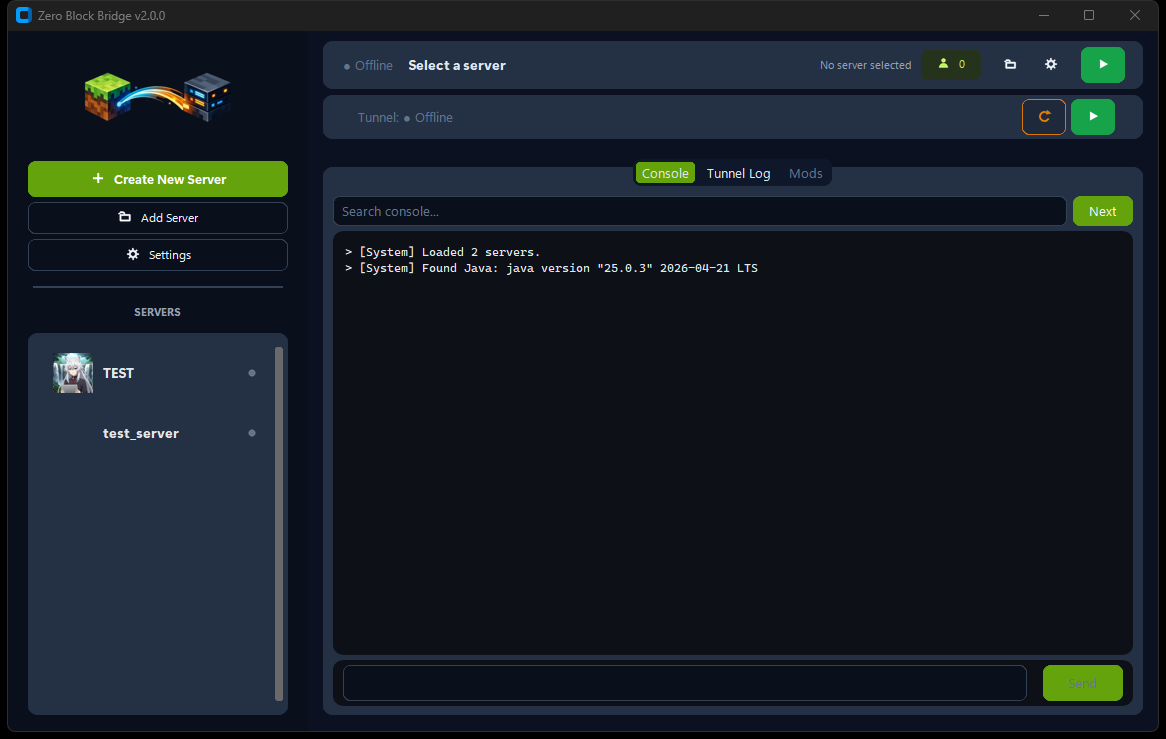
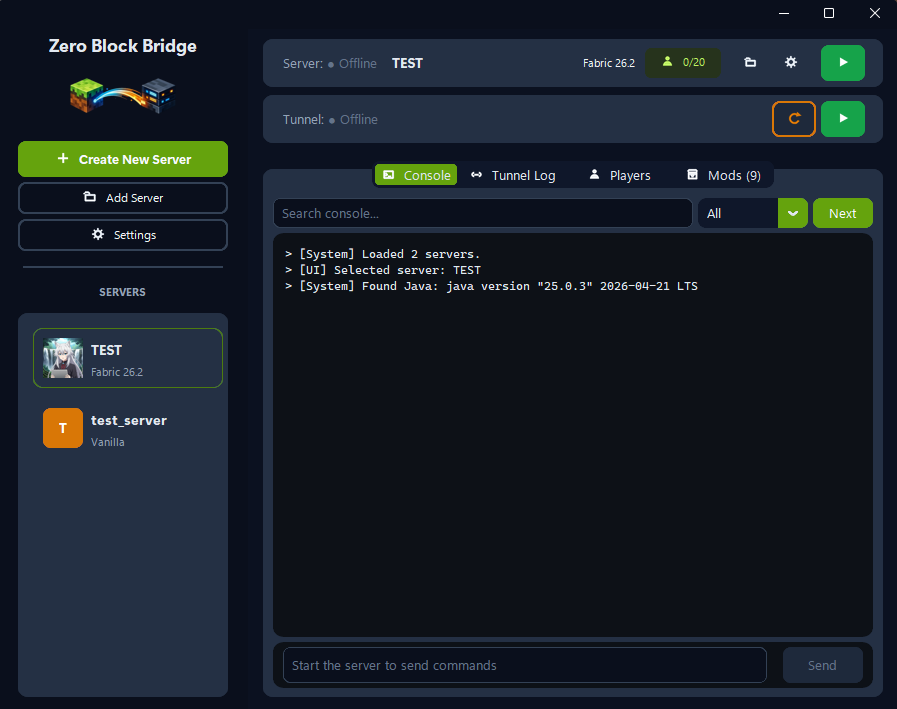
fix(site): stale v2.0.0 screenshot, unthrottled resize handlers, reduced-motion support
The dashboard screenshot showed the old titlebar and pre-2.2.0 UI (no
Players tab, no tab counts); replaced with a current dark-theme capture.

Both the hero tile grid and the section particle canvas rebuilt
themselves on every single resize event with no debouncing, so dragging
the window edge repeatedly tore down and recreated hundreds of tile divs
and the whole particle simulation. Debounced to 150ms.

prefers-reduced-motion only silenced the starfield; the hero shimmer
sweep, title gradient drift, hint pulse, and the particle canvas's
infinite requestAnimationFrame loop kept running regardless. All four
now respect it (the canvas draws one static frame instead of looping).

Also added the 2.2.0 "Browse While Running" feature to the list and
renamed "Players Dashboard" to "Players Tab" to match the app.

diff --git a/script.js b/script.js
@@ -48,7 +48,11 @@
   };
 
   createGrid();
-  window.addEventListener('resize', createGrid);
+  let resizeTimer;
+  window.addEventListener('resize', () => {
+    clearTimeout(resizeTimer);
+    resizeTimer = setTimeout(createGrid, 150);
+  });
 
   // ── Scroll-out: hero fades as user scrolls (no slide) ───────
   const FADE_RANGE = 220;
@@ -170,18 +174,28 @@
       }
     }
 
-    animId = requestAnimationFrame(tick);
+    if (!reduceMotion) animId = requestAnimationFrame(tick);
   }
 
+  const reduceMotion = window.matchMedia('(prefers-reduced-motion: reduce)').matches;
+
+  let resizeTimer;
   window.addEventListener('resize', () => {
-    cancelAnimationFrame(animId);
-    init();
-    lastTs = null;
-    animId = requestAnimationFrame(tick);
+    clearTimeout(resizeTimer);
+    resizeTimer = setTimeout(() => {
+      cancelAnimationFrame(animId);
+      init();
+      lastTs = null;
+      if (!reduceMotion) animId = requestAnimationFrame(tick);
+    }, 150);
   });
 
   init();
-  animId = requestAnimationFrame(tick);
+  if (reduceMotion) {
+    tick(0); // draw one static frame, no loop
+  } else {
+    animId = requestAnimationFrame(tick);
+  }
 })();
 
 // ── Vitra init ─────────────────────────────────────────────────

diff --git a/index.html b/index.html
@@ -116,9 +116,10 @@
         <ul class="more-features vitra-reveal vitra-reveal-up">
           <li><span class="mf-icon">💾</span> <strong>Scheduled Backups</strong> — auto ZIP by interval &amp; retention</li>
           <li><span class="mf-icon">📦</span> <strong>Templates &amp; .zbbpack</strong> — reusable configs, portable archives</li>
-          <li><span class="mf-icon">👥</span> <strong>Players Dashboard</strong> — ops, bans, whitelist in one view</li>
+          <li><span class="mf-icon">👥</span> <strong>Players Tab</strong> — ops, bans, whitelist, skin heads &amp; playtime in one view</li>
           <li><span class="mf-icon">🔗</span> <strong>Mod Dependency Resolution</strong> — auto-resolve, update badges</li>
           <li><span class="mf-icon">💬</span> <strong>Discord Webhooks</strong> — crash, ready, backup &amp; player events</li>
+          <li><span class="mf-icon">🗂</span> <strong>Browse While Running</strong> — view or configure any server while another one plays</li>
         </ul>
       </div>
     </section>

diff --git a/style.css b/style.css
@@ -130,10 +130,6 @@ body {
   to   { background-position: -100% 0; }
 }
 
-@media (prefers-reduced-motion: reduce) {
-  .zbb-stars { animation: none; }
-}
-
 /* ── Tile Grid ─────────────────────────────────────────────── */
 
 #hero-tiles {
@@ -710,4 +706,15 @@ body {
   .hero-btn-ghost { width: 100%; max-width: 280px; justify-content: center; }
   .footer-inner { gap: 0.5rem; }
   .footer-sep   { display: none; }
+}
+
+/* Placed last so it wins the cascade over the unconditional animation
+   rules defined earlier for these same selectors. */
+@media (prefers-reduced-motion: reduce) {
+  .zbb-stars,
+  #hero::before,
+  .title-block,
+  .tiles-hint-sub {
+    animation: none;
+  }
 }
